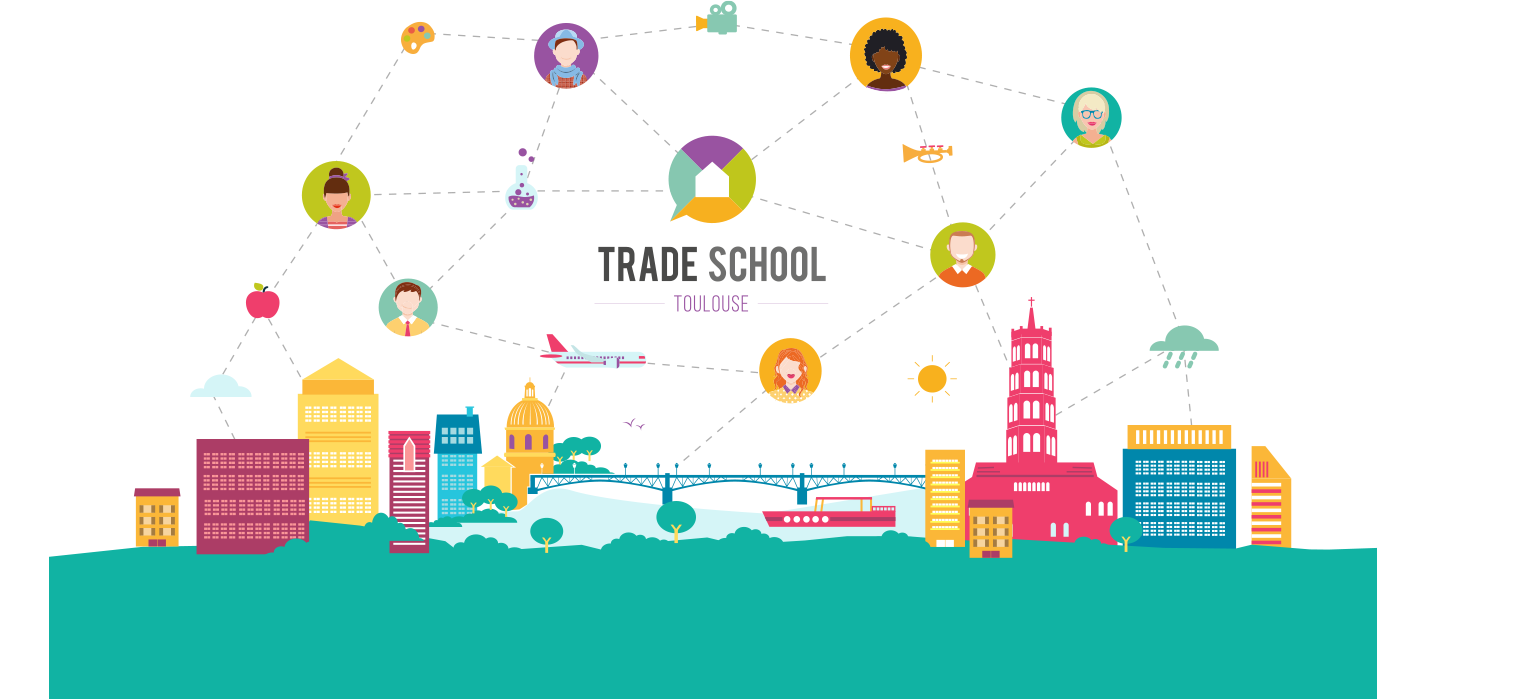
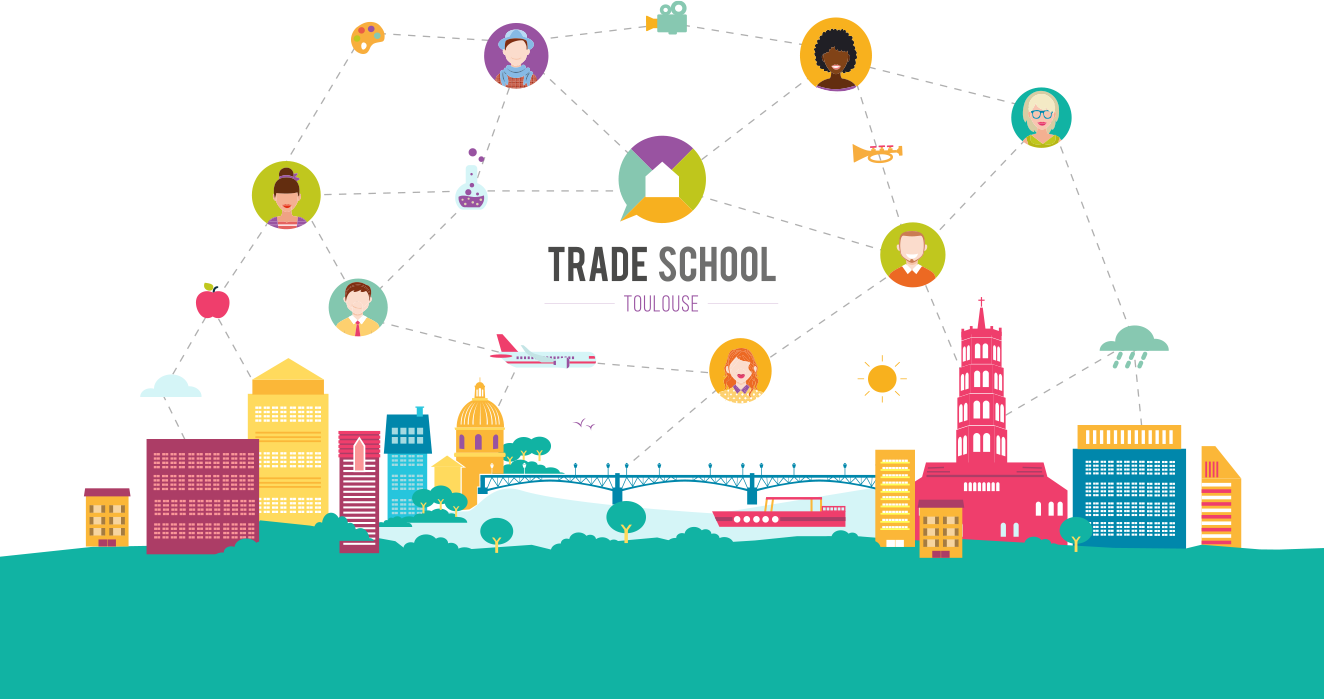
Fix home background image

diff --git a/static_website/css/style.css b/static_website/css/style.css
@@ -336,9 +336,8 @@ img.footer-logo {
 /* Home Style */
 #tst-home {
     background: url(../img/Accueil_site_TST_Dec2016.png);
-    background-size: auto 100%;
+    background-size: cover;
     background-position: center;
-    background-repeat: no-repeat;
 }
 
 #tst-home h1 {
